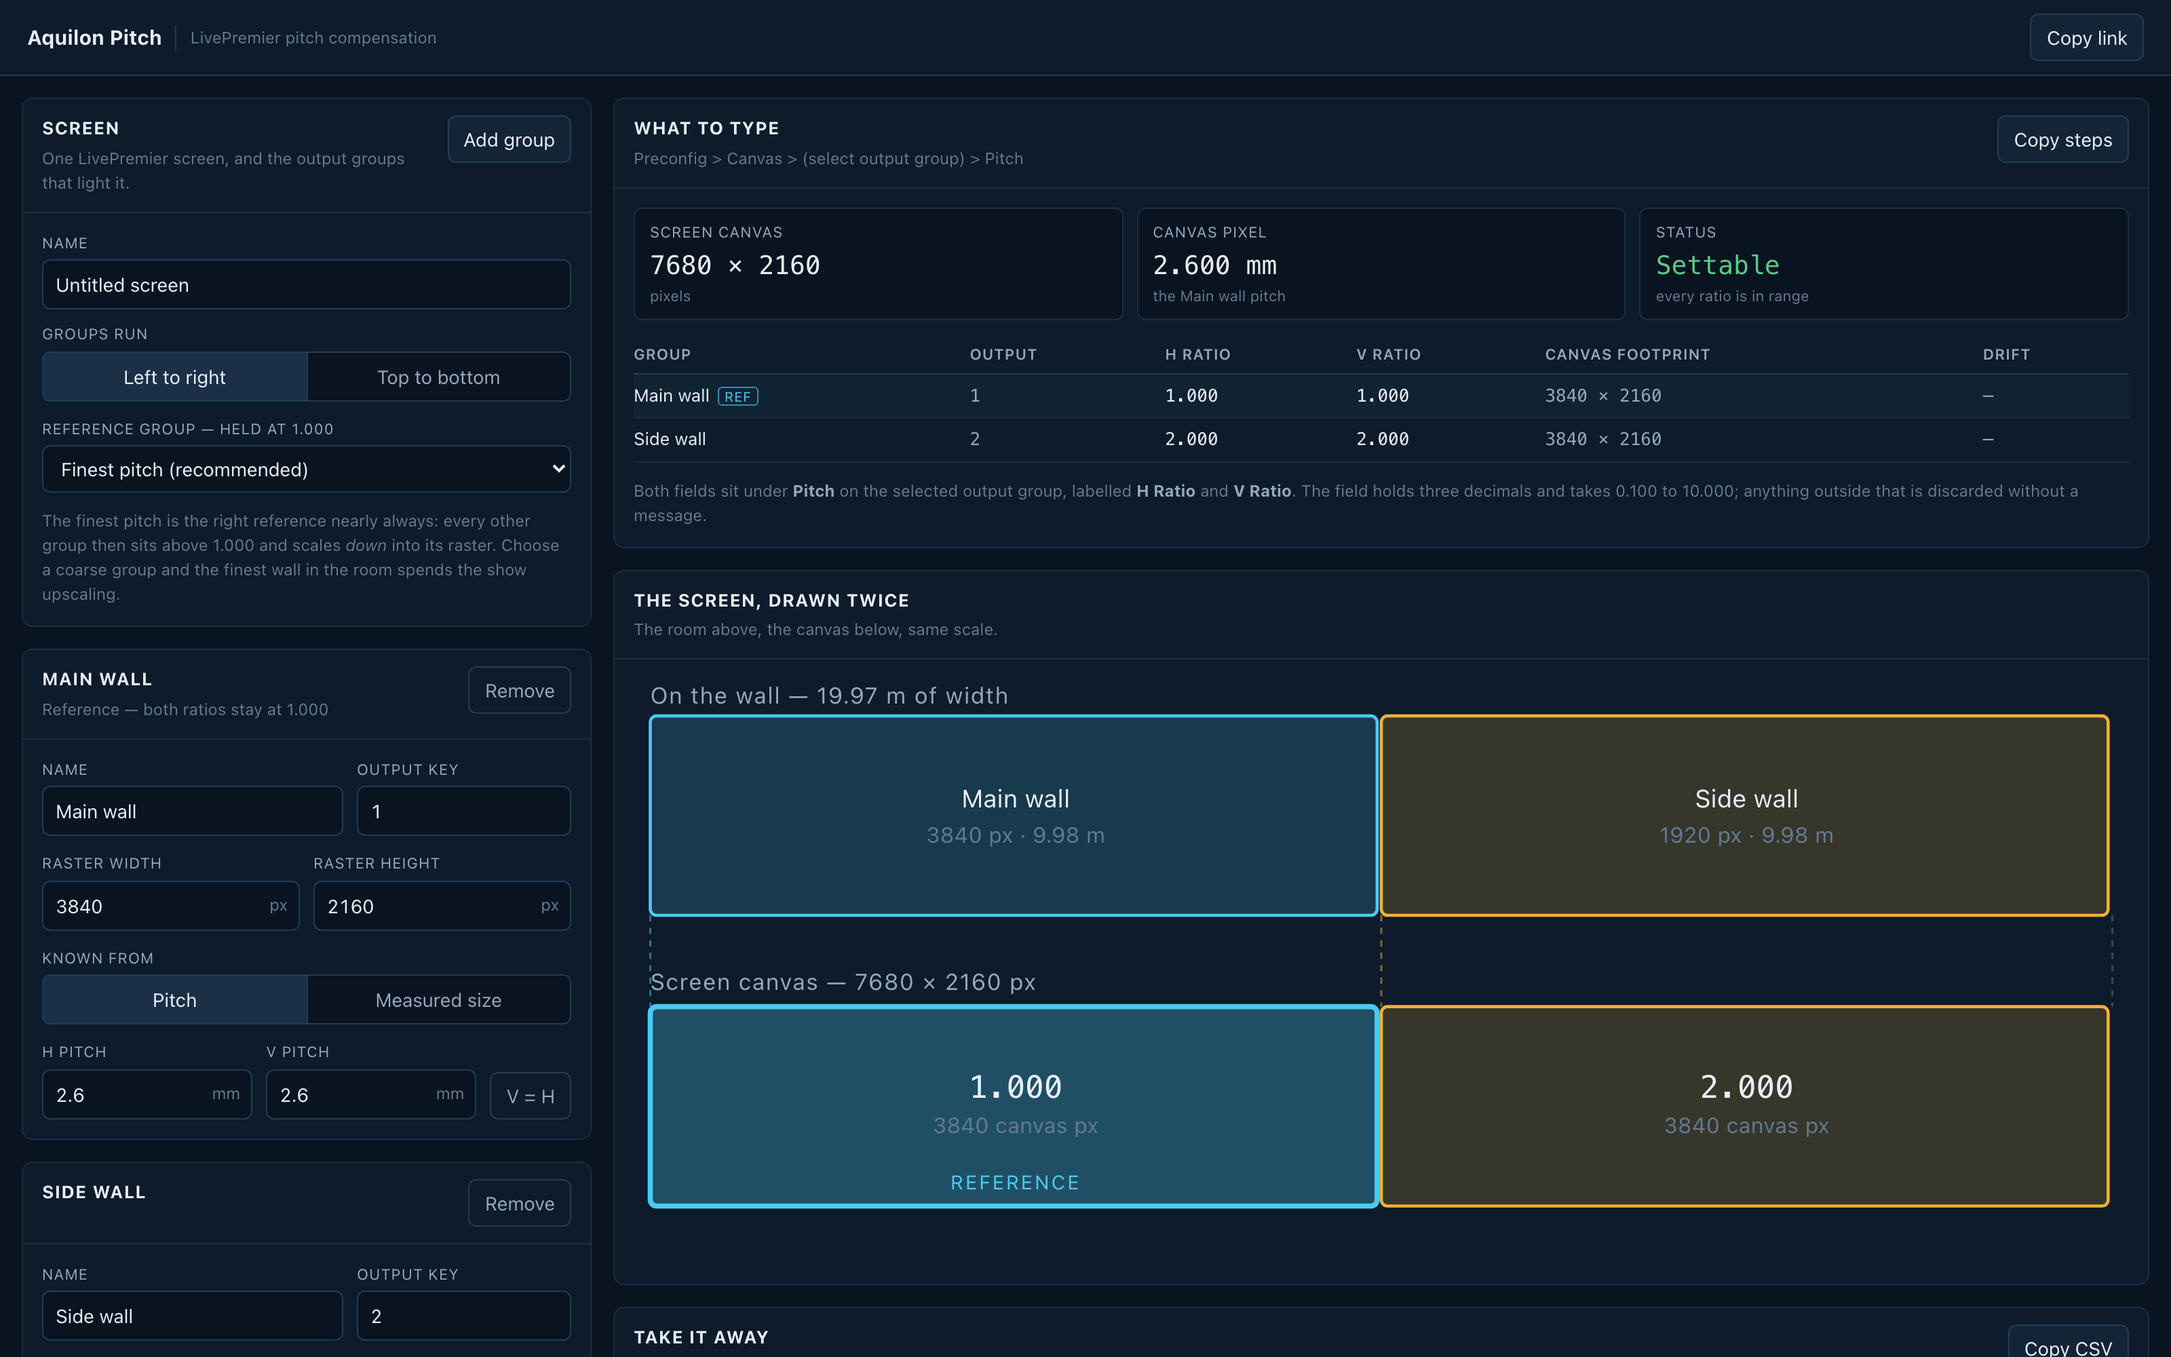
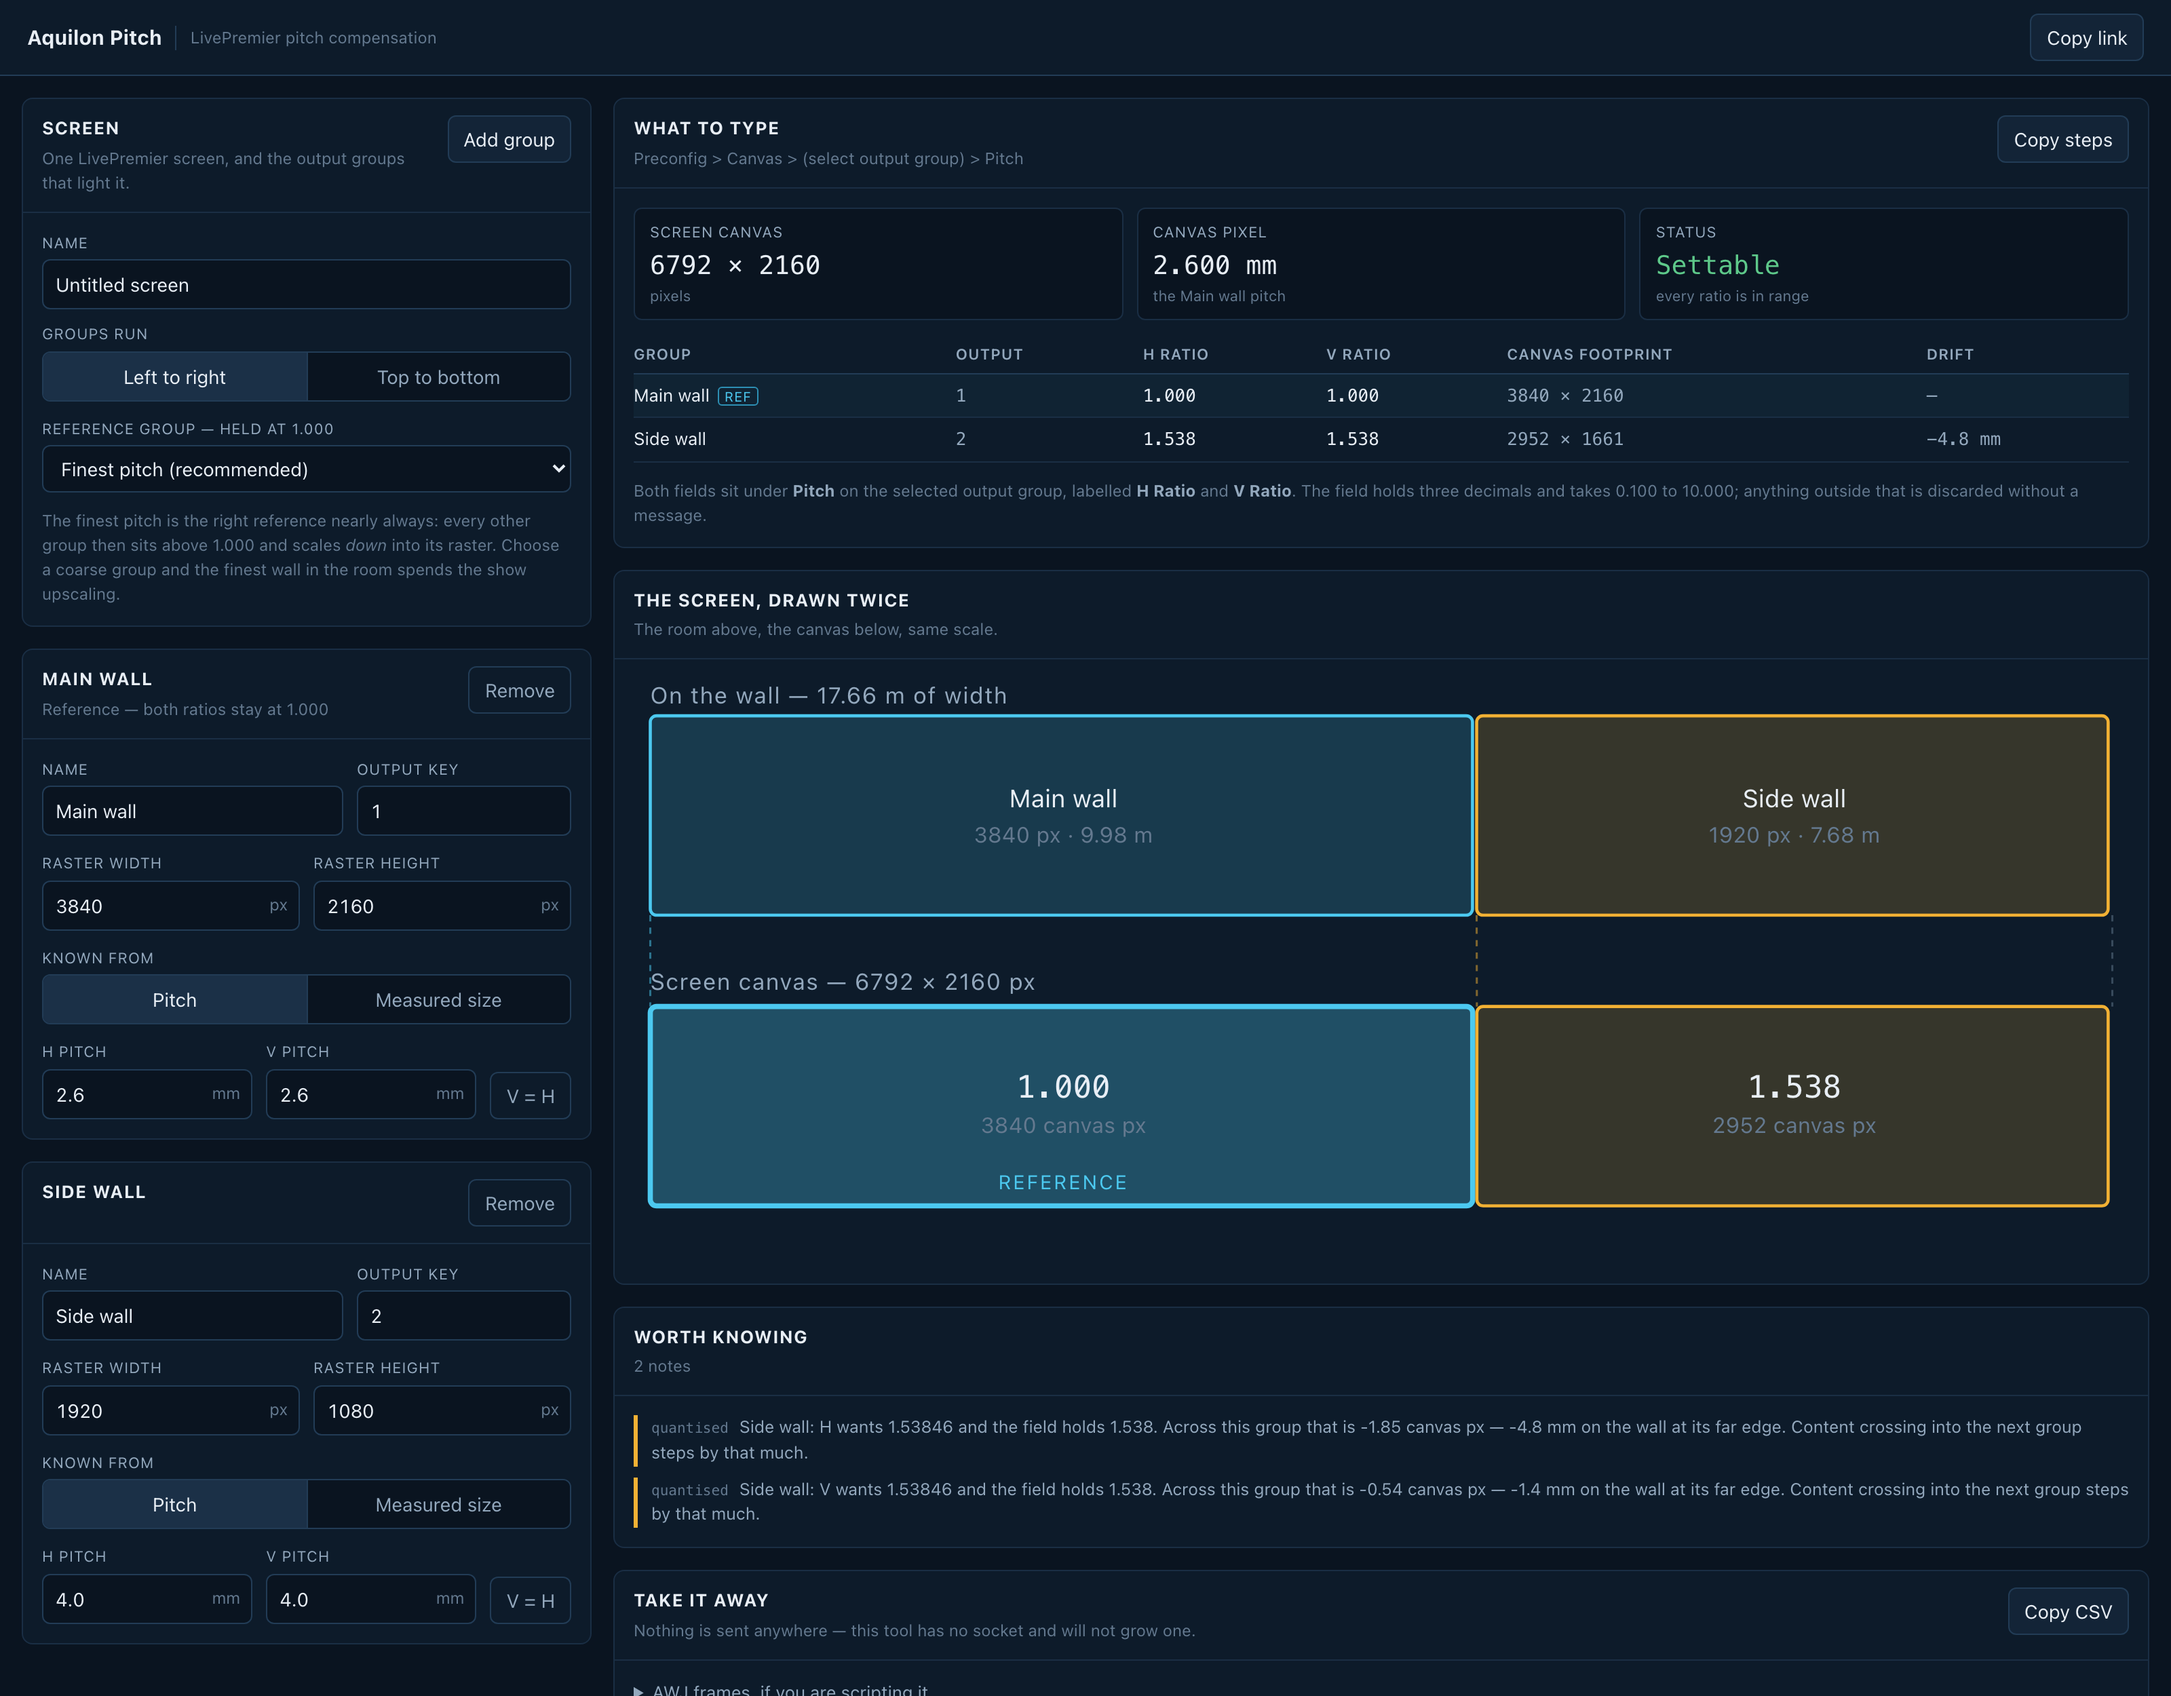
Retake the screenshot on a mixed-pitch pair, where the quantisation shows

diff --git a/README.md b/README.md
@@ -22,9 +22,9 @@ field costs you at the far edge of each wall.
 Runs entirely in the browser. No account, no backend, nothing uploaded — a client's set design
 has nowhere to leak to.
 
-![Aquilon Pitch with its starting example: a main wall and a side wall resolved into one screen canvas](docs/screenshots/aquilon-pitch.png)
+![Aquilon Pitch with a 2.6 mm main wall and a 4.0 mm side wall: the ratios to type, the screen drawn as the room and as the canvas, and the quantisation notes](docs/screenshots/aquilon-pitch.png)
 
-<sub>The hosted tool as it opens: a 3840 px main wall and a 1920 px side wall of the same physical width — a coarser pitch, so a 2.000 ratio — resolved into one 7680 × 2160 screen canvas at the finest pitch. The ratios to type into the switcher are in the table, and the screen is drawn twice below it, as the room and as the canvas, at the same scale.</sub>
+<sub>A 2.6 mm main wall and a 4.0 mm side wall on one screen: the side wall wants a ratio of 1.53846…, the field holds 1.538, and across its 1920-pixel raster that is 1.85 canvas pixels short — 4.8 mm of real wall at the far edge, which the notes under the drawing say out loud. The hosted tool, with the side wall's pitch typed in over the example it opens with.</sub>
 
 ---
 
